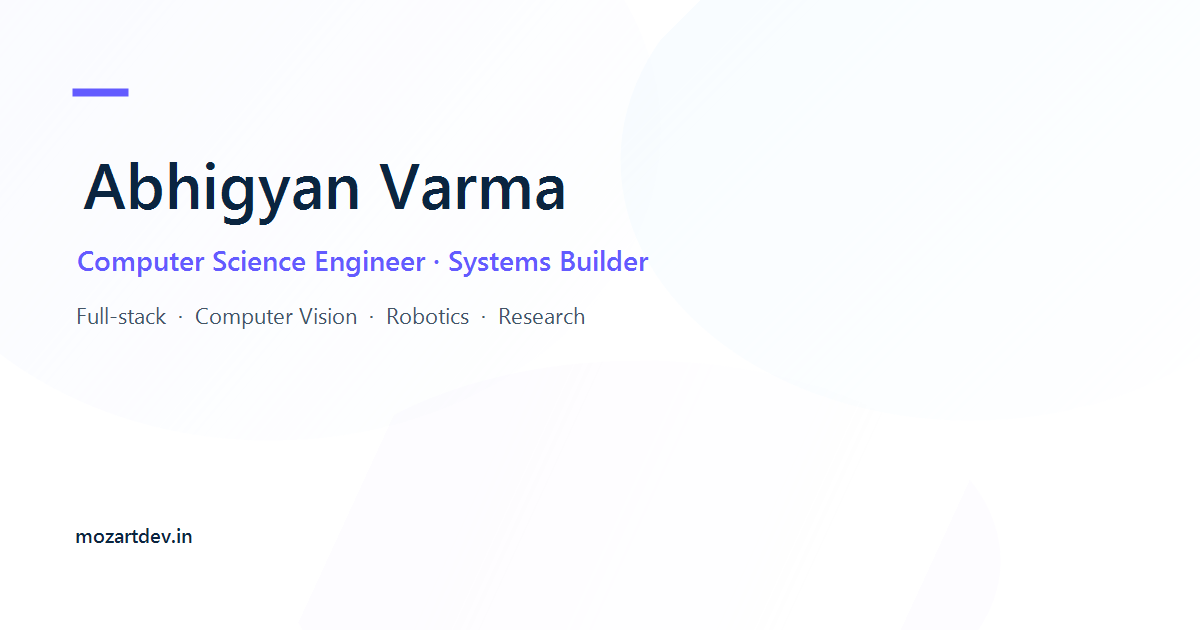
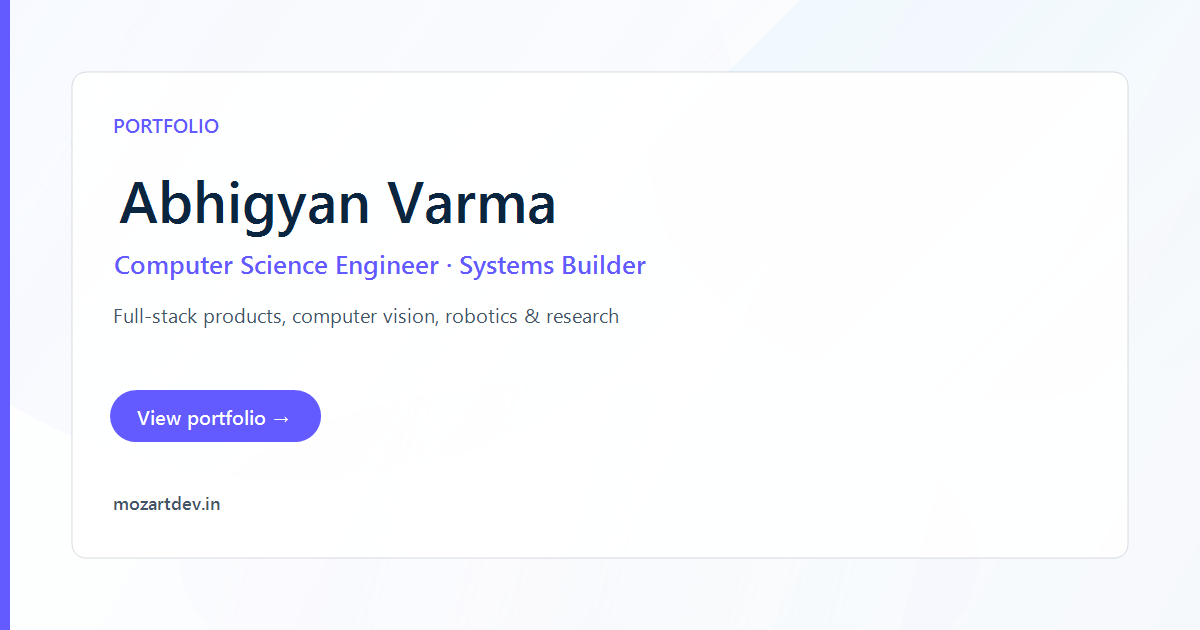
added skills

diff --git a/src/components/skills/SkillsBoard.tsx b/src/components/skills/SkillsBoard.tsx
@@ -1,6 +1,7 @@
-import { useMemo, useState } from 'react'
+import { useMemo } from 'react'
+import { Layers } from 'lucide-react'
 import type { Skill, SkillCategory } from '@/types'
-import { Badge } from '@/components/ui/Badge'
+import { categoryTone, proficiencyToLevel } from '@/lib/skills'
 import { cn } from '@/lib/utils'
 
 const ORDER: SkillCategory[] = [
@@ -13,9 +14,33 @@ const ORDER: SkillCategory[] = [
   'Hardware',
 ]
 
-export function SkillsBoard({ skills }: { skills: Skill[] }) {
-  const [active, setActive] = useState<SkillCategory | 'All'>('All')
+function SkillPill({
+  skill,
+  compact = false,
+}: {
+  skill: Skill
+  compact?: boolean
+}) {
+  const level = proficiencyToLevel(skill.proficiency)
+  const tone = categoryTone[skill.category]
 
+  return (
+    <span
+      className={cn(
+        'inline-flex items-center gap-2 rounded-full border font-medium shadow-[0_1px_2px_rgba(10,37,64,0.04)]',
+        tone.pill,
+        compact ? 'px-3 py-1 text-xs' : 'px-3.5 py-1.5 text-sm',
+      )}
+    >
+      <span className="font-semibold">{skill.name}</span>
+      <span className={cn('font-medium opacity-75', tone.label)}>
+        {compact ? `· ${level}` : level}
+      </span>
+    </span>
+  )
+}
+
+export function SkillsBoard({ skills }: { skills: Skill[] }) {
   const grouped = useMemo(() => {
     const map = new Map<SkillCategory, Skill[]>()
     for (const cat of ORDER) map.set(cat, [])
@@ -33,58 +58,58 @@ export function SkillsBoard({ skills }: { skills: Skill[] }) {
     return map
   }, [skills])
 
-  const categories = active === 'All' ? ORDER : [active]
+  const activeCategories = ORDER.filter((cat) => (grouped.get(cat) ?? []).length > 0)
+  const allSkills = useMemo(
+    () =>
+      activeCategories.flatMap((cat) => grouped.get(cat) ?? []),
+    [activeCategories, grouped],
+  )
 
   return (
-    <div>
-      <div className="flex flex-wrap gap-2">
-        {(['All', ...ORDER] as const).map((cat) => (
-          <button
-            key={cat}
-            type="button"
-            onClick={() => setActive(cat)}
-            className={cn(
-              'rounded-full px-3.5 py-1.5 text-sm font-medium transition-colors',
-              active === cat
-                ? 'bg-accent text-accent-fg'
-                : 'bg-bg-elevated text-text-muted hover:text-text',
-            )}
-          >
-            {cat}
-          </button>
-        ))}
-      </div>
-
-      <div className="mt-10 space-y-12">
-        {categories.map((cat) => {
+    <div className="space-y-6">
+      <div className="grid gap-4 sm:grid-cols-2 lg:grid-cols-3">
+        {activeCategories.map((cat) => {
           const list = grouped.get(cat) ?? []
-          if (list.length === 0) return null
           return (
-            <section key={cat}>
-              <div className="mb-4 flex items-center gap-3">
-                <h2 className="text-xl font-semibold tracking-tight">{cat}</h2>
-                <Badge>{list.length}</Badge>
+            <section
+              key={cat}
+              className="soft-panel flex flex-col rounded-2xl p-5 sm:p-6"
+            >
+              <div className="mb-4 flex items-center gap-2">
+                <span
+                  className={cn('h-1.5 w-1.5 rounded-full', categoryTone[cat].dot)}
+                  aria-hidden
+                />
+                <h2 className="text-xs font-semibold uppercase tracking-[0.14em] text-text-muted">
+                  {cat}
+                </h2>
               </div>
-              <div className="grid gap-3 sm:grid-cols-2 lg:grid-cols-3">
+              <div className="flex flex-wrap gap-2">
                 {list.map((skill) => (
-                  <div key={skill.id} className="soft-panel rounded-2xl p-4">
-                    <div className="flex items-center justify-between gap-3">
-                      <p className="font-medium text-text">{skill.name}</p>
-                      <span className="text-sm text-text-muted">{skill.proficiency}%</span>
-                    </div>
-                    <div className="mt-3 h-1.5 overflow-hidden rounded-full bg-bg-elevated">
-                      <div
-                        className="h-full rounded-full bg-accent transition-all duration-500"
-                        style={{ width: `${Math.min(100, Math.max(0, skill.proficiency))}%` }}
-                      />
-                    </div>
-                  </div>
+                  <SkillPill key={skill.id} skill={skill} />
                 ))}
               </div>
             </section>
           )
         })}
       </div>
+
+      <section className="soft-panel rounded-2xl p-5 sm:p-6">
+        <div className="mb-4 flex items-center gap-2">
+          <Layers size={14} className="text-accent" aria-hidden />
+          <h2 className="text-xs font-semibold uppercase tracking-[0.14em] text-text-muted">
+            All skills
+          </h2>
+          <span className="rounded-full bg-bg-elevated px-2 py-0.5 text-xs font-medium text-text-muted">
+            {allSkills.length}
+          </span>
+        </div>
+        <div className="flex flex-wrap gap-2">
+          {allSkills.map((skill) => (
+            <SkillPill key={`all-${skill.id}`} skill={skill} compact />
+          ))}
+        </div>
+      </section>
     </div>
   )
 }

diff --git a/index.html b/index.html
@@ -5,7 +5,7 @@
     <meta name="viewport" content="width=device-width, initial-scale=1.0" />
 
     <!-- Primary SEO -->
-    <title>Abhigyan Varma — Portfolio</title>
+    <title>Abhigyan Varma — Full-Stack, Vision &amp; Robotics Portfolio</title>
     <meta
       name="description"
       content="Portfolio of Abhigyan Varma — Computer Science engineer building full-stack products, computer vision systems, robotics, and research."
@@ -29,27 +29,27 @@
     <meta property="og:site_name" content="Mozart Dev" />
     <meta property="og:locale" content="en_US" />
     <meta property="og:url" content="https://www.mozartdev.in/" />
-    <meta property="og:title" content="Abhigyan Varma — Portfolio" />
+    <meta property="og:title" content="Abhigyan Varma — Full-Stack, Vision &amp; Robotics Portfolio" />
     <meta
       property="og:description"
-      content="Computer Science engineer building full-stack products, computer vision, robotics, and research."
+      content="Computer Science engineer building full-stack products, computer vision, robotics, and research. Explore selected projects and systems work."
     />
-    <meta property="og:image" content="https://www.mozartdev.in/og-image.png" />
-    <meta property="og:image:secure_url" content="https://www.mozartdev.in/og-image.png" />
+    <meta property="og:image" content="https://www.mozartdev.in/og-image.png?v=3" />
+    <meta property="og:image:secure_url" content="https://www.mozartdev.in/og-image.png?v=3" />
     <meta property="og:image:type" content="image/png" />
     <meta property="og:image:width" content="1200" />
     <meta property="og:image:height" content="630" />
-    <meta property="og:image:alt" content="Abhigyan Varma — Portfolio preview card" />
+    <meta property="og:image:alt" content="Abhigyan Varma portfolio — View portfolio on mozartdev.in" />
 
     <!-- Twitter / X -->
     <meta name="twitter:card" content="summary_large_image" />
-    <meta name="twitter:title" content="Abhigyan Varma — Portfolio" />
+    <meta name="twitter:title" content="Abhigyan Varma — Full-Stack, Vision &amp; Robotics Portfolio" />
     <meta
       name="twitter:description"
-      content="Computer Science engineer building full-stack products, computer vision, robotics, and research."
+      content="Computer Science engineer building full-stack products, computer vision, robotics, and research. Explore selected projects and systems work."
     />
-    <meta name="twitter:image" content="https://www.mozartdev.in/og-image.png" />
-    <meta name="twitter:image:alt" content="Abhigyan Varma — Portfolio preview card" />
+    <meta name="twitter:image" content="https://www.mozartdev.in/og-image.png?v=3" />
+    <meta name="twitter:image:alt" content="Abhigyan Varma portfolio — View portfolio on mozartdev.in" />
 
     <!-- Fonts -->
     <link rel="preconnect" href="https://fonts.googleapis.com" />

diff --git a/src/lib/skills.ts b/src/lib/skills.ts
@@ -1,0 +1,52 @@
+import type { SkillCategory } from '@/types'
+
+export type SkillLevel = 'Beginner' | 'Familiar' | 'Developing' | 'Strong'
+
+export function proficiencyToLevel(proficiency: number): SkillLevel {
+  if (proficiency >= 85) return 'Strong'
+  if (proficiency >= 75) return 'Familiar'
+  if (proficiency >= 65) return 'Developing'
+  return 'Beginner'
+}
+
+/** Soft Stripe-style color tokens per category (works in light + dark). */
+export const categoryTone: Record<
+  SkillCategory,
+  { pill: string; label: string; dot: string }
+> = {
+  Languages: {
+    pill: 'border-amber-300/80 bg-amber-50 text-amber-800 dark:border-amber-500/40 dark:bg-amber-500/10 dark:text-amber-200',
+    label: 'text-amber-600/80 dark:text-amber-300/80',
+    dot: 'bg-amber-500',
+  },
+  Frontend: {
+    pill: 'border-blue-300/80 bg-blue-50 text-blue-800 dark:border-blue-500/40 dark:bg-blue-500/10 dark:text-blue-200',
+    label: 'text-blue-600/80 dark:text-blue-300/80',
+    dot: 'bg-blue-500',
+  },
+  Backend: {
+    pill: 'border-violet-300/80 bg-violet-50 text-violet-800 dark:border-violet-500/40 dark:bg-violet-500/10 dark:text-violet-200',
+    label: 'text-violet-600/80 dark:text-violet-300/80',
+    dot: 'bg-violet-500',
+  },
+  Databases: {
+    pill: 'border-teal-300/80 bg-teal-50 text-teal-800 dark:border-teal-500/40 dark:bg-teal-500/10 dark:text-teal-200',
+    label: 'text-teal-600/80 dark:text-teal-300/80',
+    dot: 'bg-teal-500',
+  },
+  'Cloud / DevOps': {
+    pill: 'border-sky-300/80 bg-sky-50 text-sky-800 dark:border-sky-500/40 dark:bg-sky-500/10 dark:text-sky-200',
+    label: 'text-sky-600/80 dark:text-sky-300/80',
+    dot: 'bg-sky-500',
+  },
+  'Computer Vision': {
+    pill: 'border-fuchsia-300/80 bg-fuchsia-50 text-fuchsia-800 dark:border-fuchsia-500/40 dark:bg-fuchsia-500/10 dark:text-fuchsia-200',
+    label: 'text-fuchsia-600/80 dark:text-fuchsia-300/80',
+    dot: 'bg-fuchsia-500',
+  },
+  Hardware: {
+    pill: 'border-cyan-300/80 bg-cyan-50 text-cyan-800 dark:border-cyan-500/40 dark:bg-cyan-500/10 dark:text-cyan-200',
+    label: 'text-cyan-600/80 dark:text-cyan-300/80',
+    dot: 'bg-cyan-500',
+  },
+}

diff --git a/src/pages/Skills.tsx b/src/pages/Skills.tsx
@@ -1,3 +1,4 @@
+import { Layers } from 'lucide-react'
 import { SkillsBoard } from '@/components/skills/SkillsBoard'
 import { FadeIn } from '@/components/ui/Motion'
 import { usePortfolio } from '@/hooks/usePortfolio'
@@ -11,13 +12,17 @@ export function SkillsPage() {
     <div className="page-wash">
       <div className="mx-auto max-w-6xl px-4 py-16 sm:px-6 sm:py-24">
         <FadeIn>
-          <p className="text-sm font-semibold text-accent">Skills</p>
+          <div className="flex items-center gap-2">
+            <Layers size={16} className="text-accent" aria-hidden />
+            <p className="text-sm font-semibold uppercase tracking-[0.14em] text-accent">
+              Skills
+            </p>
+          </div>
           <h1 className="mt-3 text-4xl font-bold tracking-tight sm:text-5xl">
-            Stack across layers
+            Technical <span className="text-accent">Toolkit</span>
           </h1>
           <p className="mt-4 max-w-2xl text-lg leading-relaxed text-text-muted">
-            From languages and frontend to vision pipelines and hardware — organized by the systems
-            they serve.
+            Grouped by layer — with clear proficiency labels instead of arbitrary percentages.
           </p>
         </FadeIn>
         <div className="mt-10">

diff --git a/src/pages/ControlRoom.tsx b/src/pages/ControlRoom.tsx
@@ -565,7 +565,7 @@ export function ControlRoomPage() {
                     </Select>
                   </div>
                   <div>
-                    <Label>Proficiency</Label>
+                    <Label>Proficiency (0–100 → level)</Label>
                     <Input
                       type="number"
                       min={0}
@@ -581,6 +581,16 @@ export function ControlRoomPage() {
                         )
                       }
                     />
+                    <p className="mt-1.5 text-xs text-text-muted">
+                      Displayed as:{' '}
+                      {selectedSkill.proficiency >= 85
+                        ? 'Strong'
+                        : selectedSkill.proficiency >= 75
+                          ? 'Familiar'
+                          : selectedSkill.proficiency >= 65
+                            ? 'Developing'
+                            : 'Beginner'}
+                    </p>
                   </div>
                   <div>
                     <Label>Priority</Label>

diff --git a/src/pages/Home.tsx b/src/pages/Home.tsx
@@ -8,7 +8,10 @@ import { usePortfolio } from '@/hooks/usePortfolio'
 import { usePageMeta } from '@/hooks/usePageMeta'
 
 export function HomePage() {
-  usePageMeta('Home', 'Systems builder spanning software, computer vision, robotics, and research.')
+  usePageMeta(
+    'Abhigyan Varma — Full-Stack, Vision & Robotics Portfolio',
+    'Computer Science engineer building full-stack products, computer vision, robotics, and research. Explore selected projects and systems work.',
+  )
   const { data } = usePortfolio()
   const featured = [...data.projects]
     .filter((p) => p.featured)

diff --git a/src/hooks/usePageMeta.ts b/src/hooks/usePageMeta.ts
@@ -2,7 +2,7 @@ import { useEffect } from 'react'
 import { siteConfig } from '@/config/site'
 
 const SITE_URL = 'https://www.mozartdev.in'
-const DEFAULT_IMAGE = `${SITE_URL}/og-image.png`
+const DEFAULT_IMAGE = `${SITE_URL}/og-image.png?v=3`
 
 function upsertMeta(
   attr: 'name' | 'property',
